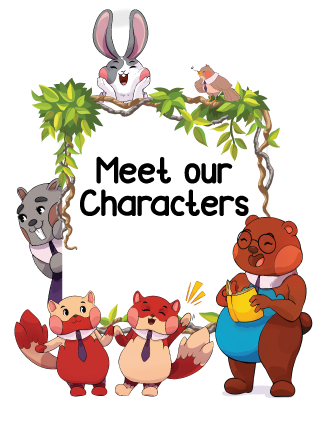
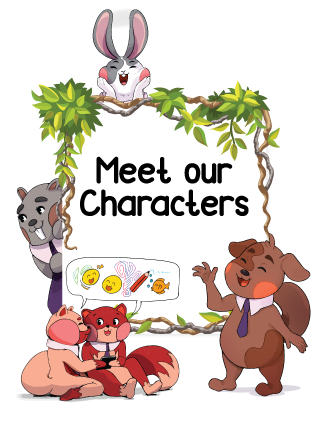
music page connected
card design change

Changed region(s): [[0.031, 0.4653, 0.9907, 0.9016], [0.5882, 0.1454, 0.743, 0.2327]]

diff --git a/Inner Pages/music.html b/Inner Pages/music.html
@@ -1,0 +1,68 @@
+<!DOCTYPE html>
+<html lang="en">
+
+<head>
+    <meta charset="UTF-8">
+    <meta http-equiv="X-UA-Compatible" content="IE=edge">
+    <meta name="viewport" content="width=device-width, initial-scale=1.0">
+    <title>Document</title>
+
+    <!-- ========Bootstrap Links============= -->
+    <!-- BootStarp CSS -->
+    <link rel="stylesheet" href="https://cdn.jsdelivr.net/npm/bootstrap@4.1.3/dist/css/bootstrap.min.css"
+        integrity="sha384-MCw98/SFnGE8fJT3GXwEOngsV7Zt27NXFoaoApmYm81iuXoPkFOJwJ8ERdknLPMO" crossorigin="anonymous">
+
+    <!-- Bootstrap Js -->
+    <script src="https://code.jquery.com/jquery-3.3.1.slim.min.js"
+        integrity="sha384-q8i/X+965DzO0rT7abK41JStQIAqVgRVzpbzo5smXKp4YfRvH+8abtTE1Pi6jizo"
+        crossorigin="anonymous"></script>
+    <script src="https://cdn.jsdelivr.net/npm/popper.js@1.14.3/dist/umd/popper.min.js"
+        integrity="sha384-ZMP7rVo3mIykV+2+9J3UJ46jBk0WLaUAdn689aCwoqbBJiSnjAK/l8WvCWPIPm49"
+        crossorigin="anonymous"></script>
+    <script src="https://cdn.jsdelivr.net/npm/bootstrap@4.1.3/dist/js/bootstrap.min.js"
+        integrity="sha384-ChfqqxuZUCnJSK3+MXmPNIyE6ZbWh2IMqE241rYiqJxyMiZ6OW/JmZQ5stwEULTy"
+        crossorigin="anonymous"></script>
+
+    <!-- Social Media icons -->
+    <link rel="stylesheet" href="https://cdnjs.cloudflare.com/ajax/libs/twitter-bootstrap/4.1.3/css/bootstrap.min.css">
+    <link rel="stylesheet" href="https://cdnjs.cloudflare.com/ajax/libs/ionicons/2.0.1/css/ionicons.min.css">
+    <link rel="stylesheet" href="assets/css/style.css">
+
+    <!-- Sidebar CDN -->
+    <link rel='stylesheet' href='https://maxcdn.bootstrapcdn.com/font-awesome/4.3.0/css/font-awesome.min.css'>
+
+    <!-- ========Main Sheets============= -->
+    <link rel="stylesheet" href="/css/footer.css">
+    <link rel="stylesheet" href="/css/characterSheet.css">
+    <link rel="stylesheet" href="/css/header.css">
+
+</head>
+
+<body>
+
+    <!--================ Start Header Area =================-->
+    <div class="container-fluid">
+        <div class="row justify-content-md-center">
+            <div class="col-md-auto">
+                <div class="logo justify-content-center">
+                    <a href="index.html"> <img src="/Assets/Logo.png" alt="" srcset="" width="100%" height="100%"></a>
+                </div>
+            </div>
+        </div>
+    </div>
+    <!--================ End Header Area =================-->
+
+    <!-- ==============Start landing page =============== -->
+    <div class="container">
+        <div class="row">
+            <div class="col">
+                <img src="/Assets/music-landing-page.png" alt="" srcset="" width="100%" height="100%">
+            </div>
+        </div>
+    </div>
+
+    <!-- ==============End landing page =============== -->
+
+</body>
+
+</html>

diff --git a/tour.html b/tour.html
@@ -42,8 +42,8 @@
     <div class="container-fluid">
         <div class="row justify-content-md-center">
             <div class="col-md-auto">
-                <div class="logo justify-content-center">
-                    <a href="index.html"></a><img src="Assets/Logo.png" alt="" srcset="" width="100%" height="100%">
+                <div class="logo justify-content-center"><a href="index.html"> <img src="Assets/Logo.png" alt=""
+                            srcset="" width="100%" height="100%"></a>
                 </div>
             </div>
         </div>
@@ -82,10 +82,10 @@
                 </div>
             </a>
 
-            <a href="">
+            <a href="/Inner Pages/music.html">
                 <div class="col mx-auto">
                     <div class="card text-white border-0">
-                        <img src="/Assets/character-card.png" class="card-img" alt="...">
+                        <img src="/Assets/music-card.png" class="card-img" alt="...">
                         <div class="card-img-overlay">
                             <!-- <h5 class="card-title">Card title</h5>
                         <p class="card-text">This is a wider card with supporting text below as a natural lead-in to
@@ -96,19 +96,19 @@
                 </div>
             </a>
 
-            <a href="">
+            <!-- <a href="">
                 <div class="col mx-auto">
                     <div class="card text-white border-0">
                         <img src="/Assets/character-card.png" class="card-img" alt="...">
                         <div class="card-img-overlay">
-                            <!-- <h5 class="card-title">Card title</h5>
+                            <h5 class="card-title">Card title</h5>
                         <p class="card-text">This is a wider card with supporting text below as a natural lead-in to
                             additional content. This content is a little bit longer.</p>
-                        <p class="card-text">Last updated 3 mins ago</p> -->
+                        <p class="card-text">Last updated 3 mins ago</p>
                         </div>
                     </div>
                 </div>
-            </a>
+            </a> -->
         </div>
     </div>
     <!-- ===========End character cards ==========-->

diff --git a/index.html b/index.html
@@ -7,6 +7,8 @@
     <meta name="viewport" content="width=device-width, initial-scale=1.0">
     <title>ToonLand</title>
 
+    <link rel="shortcut icon" href="./Assets/Logo2.png" type="image/x-icon" width="100%" height="100%">
+
     <!-- ========Bootstrap Links============= -->
     <!-- BootStarp CSS -->
     <link rel="stylesheet" href="https://cdn.jsdelivr.net/npm/bootstrap@4.1.3/dist/css/bootstrap.min.css"
@@ -242,7 +244,7 @@
                 <ul>
                     <li id="music">
                         <h3>
-                            <a href="#">Toon Music</a>
+                            <a href="/Inner Pages/music.html">Toon Music</a>
                         </h3>
                     </li>
                     <li id="library">

diff --git a/download.html b/download.html
@@ -43,7 +43,7 @@
         <div class="row justify-content-md-center">
             <div class="col-md-auto">
                 <div class="logo justify-content-center">
-                    <a href="index.html"> <img src="Assets/Logo.png" alt="" srcset="" width="100%" height="100%"></a>
+                    <a href="index.html"> <img src="/Assets/Logo.png" alt="" srcset="" width="100%" height="100%"></a>
                 </div>
             </div>
         </div>

diff --git a/css/music.css b/css/music.css
@@ -1,0 +1,4 @@
+* {
+    margin: 0;
+    padding: 0;
+}
